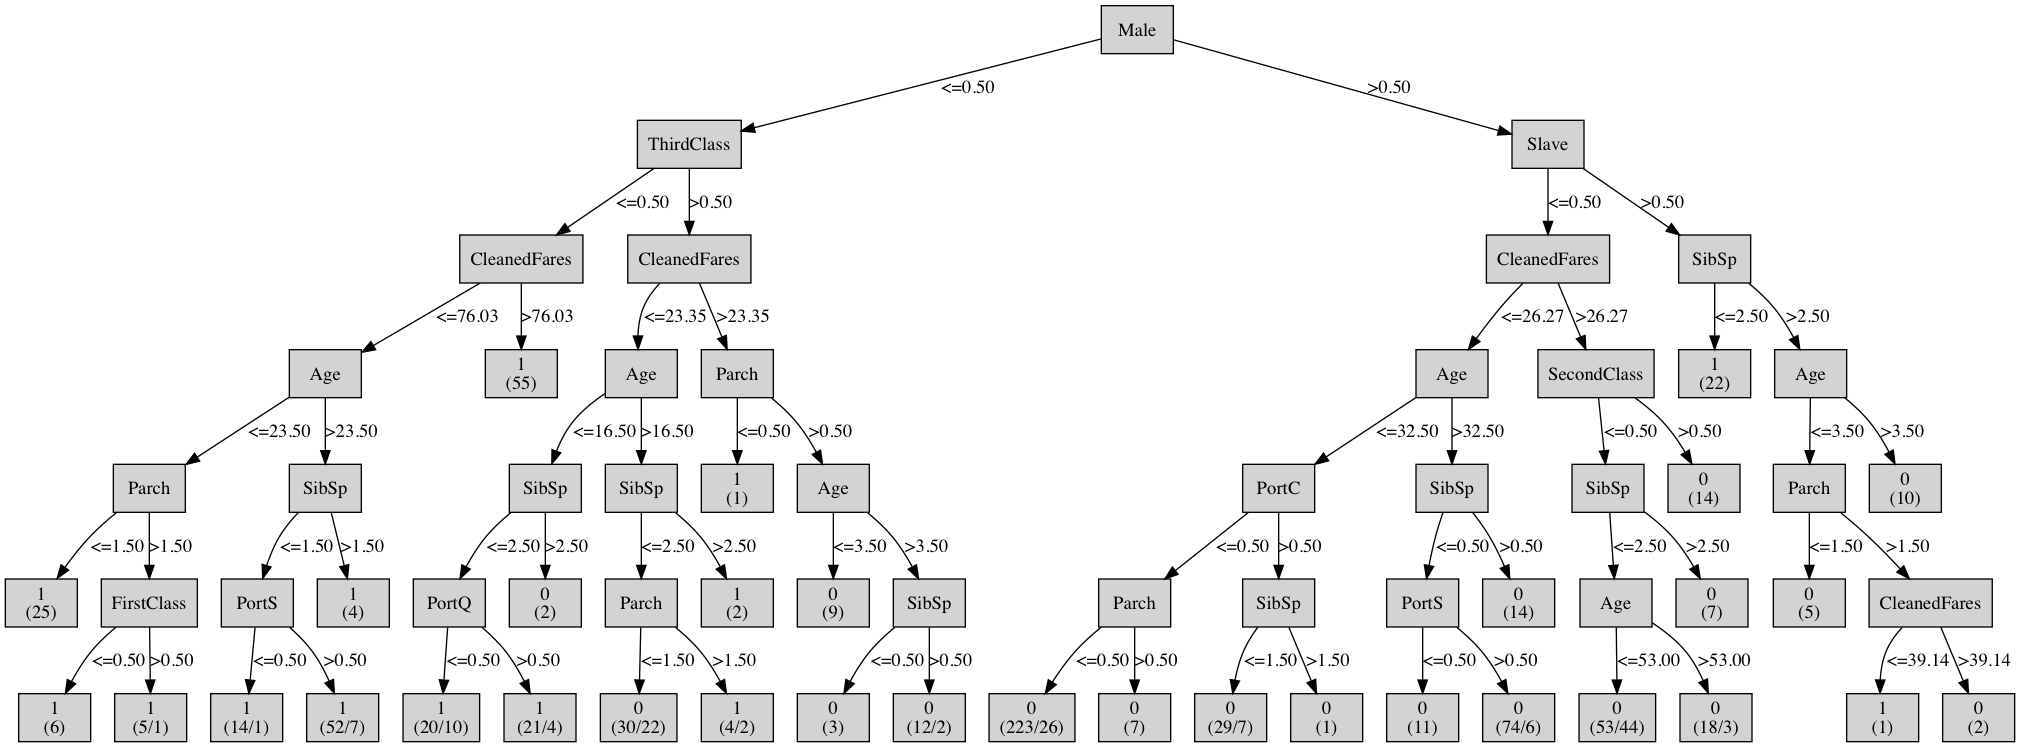
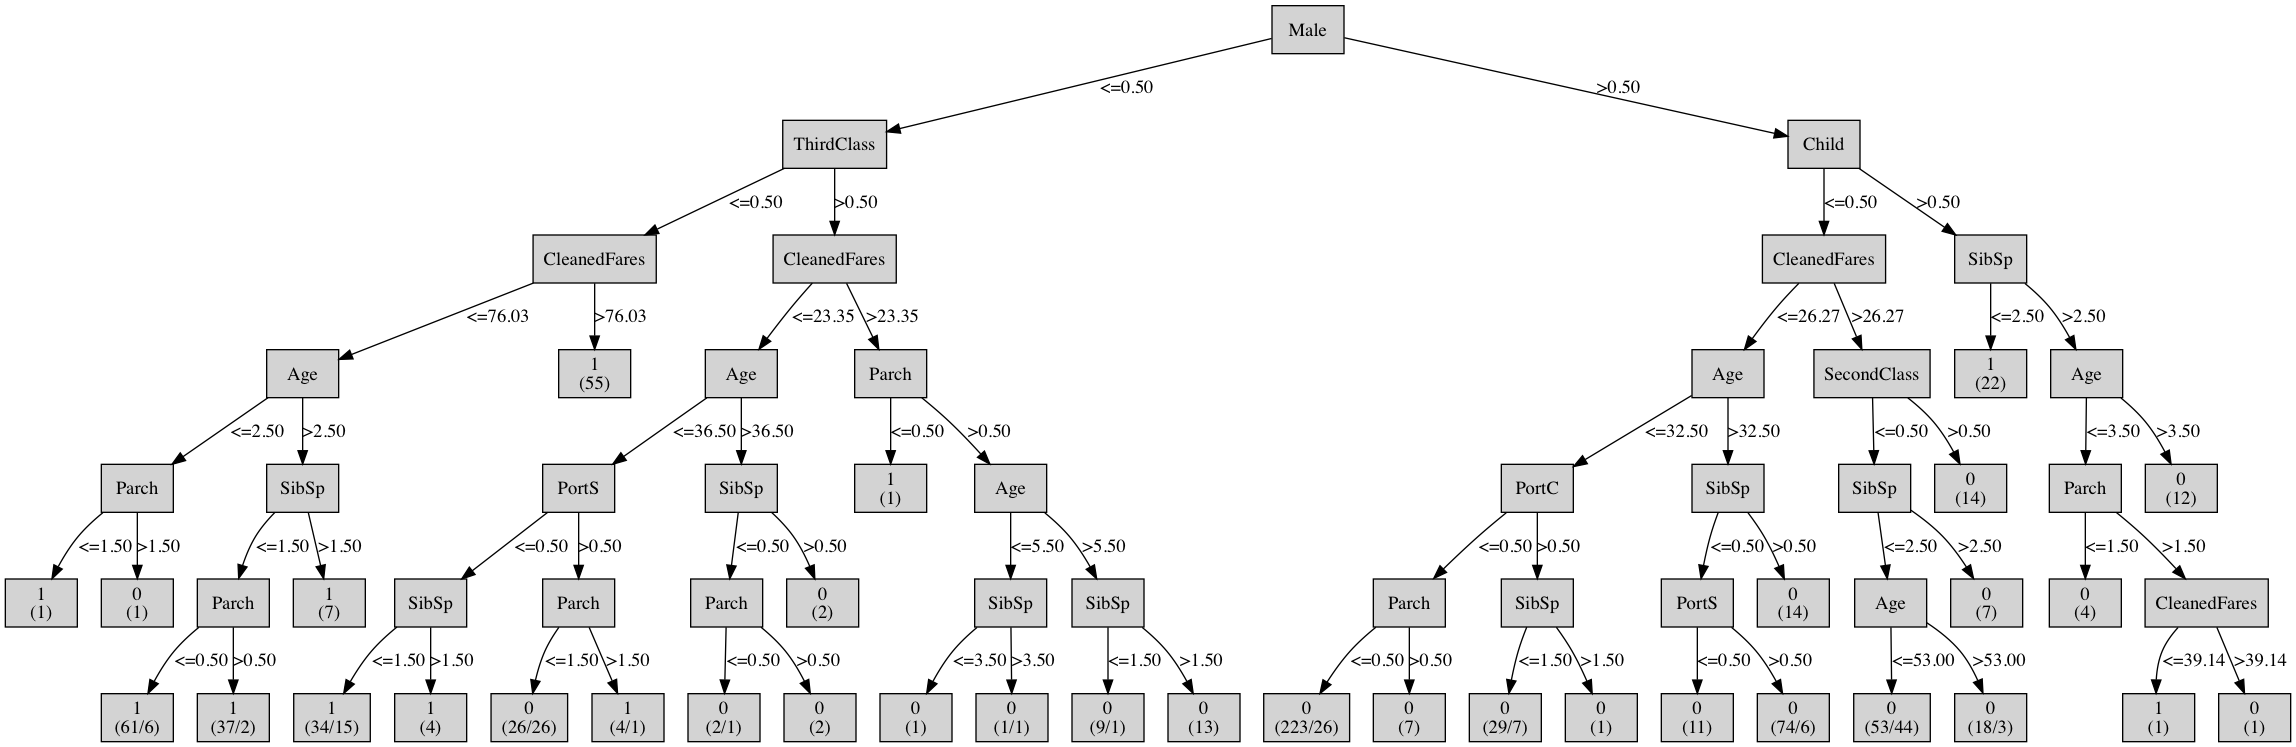
anti evil code uncommenter benedict commit

diff --git a/datapredictionmachine.py b/datapredictionmachine.py
@@ -150,7 +150,7 @@ class DataPredictionMachine:
         tree = export_graphviz(self.estimator.tree_, "./output/" + self.run_id + '/tree.dot', feature_names)
         # create png file
         command = ["dot", "-Tpng", "./output/" + self.run_id + "/tree.dot", "-o", "./output/" + self.run_id + "/tree.png"]
-        #subprocess.check_call(command)
+        subprocess.check_call(command)
 
     # predict the survival for the given dataframe
     def predict(self, other_dataframe):
